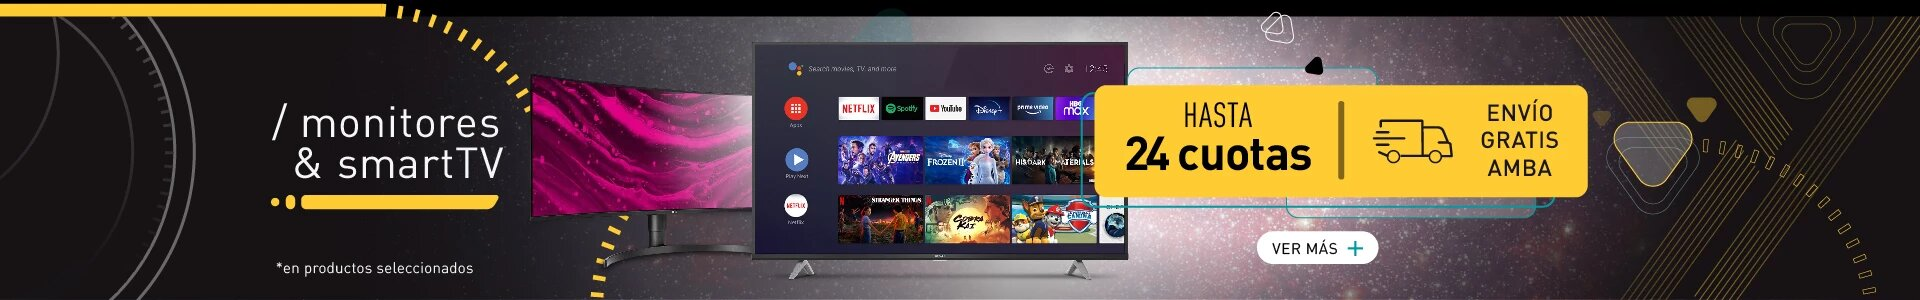
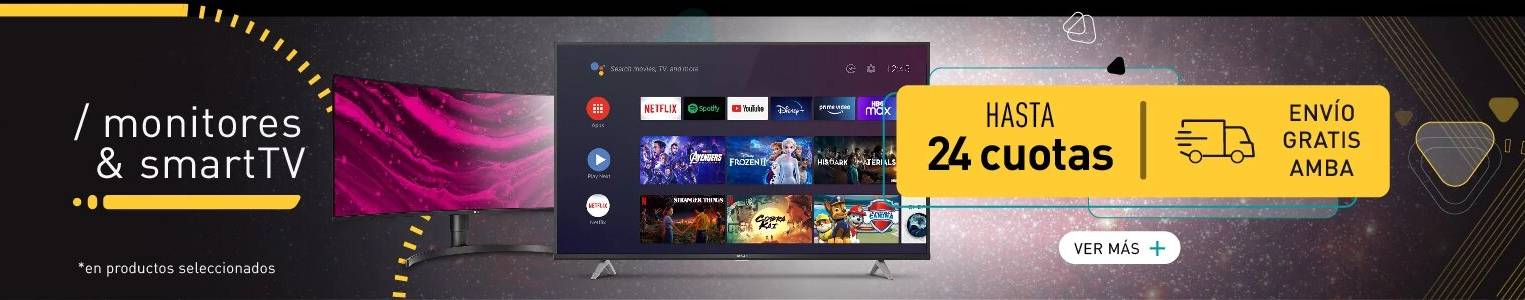
Se realizan correciones del directorio en Github
Se sube el contenido actualizado a src

diff --git a/src/components/item/ItemDetail/ItemDetail.js b/src/components/item/ItemDetail/ItemDetail.js
@@ -1,4 +1,4 @@
-import React from 'react';
+import React, { useState } from 'react';
 import Box from '@mui/material/Box';
 import Container from '@mui/material/Container';
 import Grid from '@mui/material/Grid';
@@ -9,30 +9,75 @@ import TableContainer from '@mui/material/TableContainer';
 import TableHead from '@mui/material/TableHead';
 import TableRow from '@mui/material/TableRow';
 import ItemCount from '../ItemCount/ItemCount';
+import Button from '@mui/material/Button';
 import './ItemDetail.css';
+import DoneIcon from '@mui/icons-material/Done';
+import { Link } from 'react-router-dom';
+import Alert from '@mui/material/Alert';
+import { isElementOfType } from 'react-dom/test-utils';
 
 
 const ItemDetail = ({producto}) => {
 
-    const contenidoCarrito = (x) =>{
-        if(x == 1){
-            console.log("Se añadio un producto al carrito")
+    const categorias = [
+        {
+            id: 0,
+            nombre: 'computadoras',
+            ruta: '/categorias/computadoras'
+        },
+        {
+            id: 1,
+            nombre: 'celulares',
+            ruta: '/categorias/celulares'
+        },
+        {
+            id: 2,
+            nombre: 'consolas',
+            ruta: '/categorias/consolas'
+        },
+        {
+            id: 3,
+            nombre: 'televisores',
+            ruta: '/categorias/televisores'
+        },
+        {
+            id: 4,
+            nombre: 'audio',
+            ruta: '/categorias/audio'
         }
-        else{
-            console.log("Se añadieron "+x+" productos al carrito")
-        }
+    ]
+
+    const obtenerRutaCategoria = (categoria) => {
+        const arrayCategoriasFiltrado = categorias
+            .filter( (x) => {
+                if(x.nombre === categoria){
+                    return(x)
+            }})
+        return arrayCategoriasFiltrado[0].ruta
     }
+
+    const [mostrarFinalizarCompra, setMostrarFinalizarCompra] = useState(false)
+    const [alertMensaje, setAlertMensaje] = useState("")
+
+    const handlerClick_FinalizarCompra = (x) => {
+        setMostrarFinalizarCompra(true)
+        setAlertMensaje(contenidoCarrito(x)) 
+    }
+
+    const contenidoCarrito = (x) => x==1 ? ("Se añadio un producto al carrito") : ("Se añadieron "+x+" productos al carrito")
 
     return(
         <>
-            
+        
             <Container>
-                
                 <div className='container--box'>
                     {/* Presentacion */}
                     <Box className="container--boxProducto fontPrincipal">
                         <h5 className='container--spanRuta reset'>
-                            Electromundo -&gt; {producto.categoria} -&gt;
+                            <Link to="/">Electromundo </Link> 
+                            -&gt;
+                            <Link to={obtenerRutaCategoria(producto.categoria)}> {producto.categoria} </Link>
+                            -&gt;
                             <b className='container--spanRutaActual'>{producto.name}</b>
                         </h5>
                         <Grid container spacing={0} sx={{paddingTop: 1}}>
@@ -43,10 +88,20 @@ const ItemDetail = ({producto}) => {
                                 <h3 className='container--tituloProducto reset'>{producto.name}</h3>
                                 <h2 className='container--precio'>{producto.price}</h2>
                                 <Container sx={{paddingTop: 5}}>
-                                    <ItemCount idProducto={producto.id} stock={producto.stock} initial={1} onAdd={contenidoCarrito} sx={{padding: 2}}/>
-                                    <h5 className='container--stock'>
-                                        Stock disponible :  {producto.stock} 
-                                    </h5>
+                                    {
+                                        mostrarFinalizarCompra ?
+                                        <Grid container xs={12}>
+                                            <Grid item xs={12}>
+                                                <Alert sx={{marginBottom: 2}} className="container--alert" severity="success" color="warning" variant="outlined">{alertMensaje}</Alert>
+                                                <Button component={Link} to={"/cart"} variant="contained" className='boton_carrito'>
+                                                    Finalizar compra
+                                                    <DoneIcon sx={{marginLeft: 1}}/> 
+                                                </Button>
+                                            </Grid>
+                                        </Grid>
+                                        :
+                                        <ItemCount idProducto={producto.id} stock={producto.stock} initial={1} onAdd={handlerClick_FinalizarCompra} sx={{padding: 2}}/>
+                                    }
                                 </Container>
                             </Grid>
                         </Grid>

diff --git a/src/components/item/Item/Item.js b/src/components/item/Item/Item.js
@@ -83,18 +83,6 @@ const Item = ({producto}) => {
                                             </TableRow>
                                         )
                                     }
-                                   {/*  <TableRow>
-                                        <TableCell className='specs--cell negrita'>Procesador</TableCell>
-                                        <TableCell className='specs--cell' align='right'>{producto.specs.procesador}</TableCell>
-                                    </TableRow>
-                                    <TableRow>
-                                        <TableCell className='specs--cell negrita'>Memoria RAM </TableCell>
-                                        <TableCell align='right'>{producto.specs.ram}</TableCell>
-                                    </TableRow>
-                                    <TableRow>
-                                        <TableCell className='specs--cell negrita'>Placa de Video</TableCell>
-                                        <TableCell className='specs--cell' align='right'>{producto.specs.video}</TableCell>
-                                    </TableRow> */}
                                 </TableHead>
                             </Table>
                         </TableContainer>
@@ -102,7 +90,7 @@ const Item = ({producto}) => {
                     
                 </div>
 
-                <ItemCount idProducto={producto.id} stock={producto.stock} initial={1} onAdd={contenidoCarrito}/>
+                {/* <ItemCount idProducto={producto.id} stock={producto.stock} initial={1} onAdd={contenidoCarrito}/> */}
 
             </Grid>
         </>

diff --git a/src/components/item/ItemCount/ItemCount.js b/src/components/item/ItemCount/ItemCount.js
@@ -23,13 +23,15 @@ const ItemCount = ({idProducto, stock, initial, onAdd}) => {
         }
     }
 
-    const agregarProductoAlCarrito = () => {
+    const handler_agregarProductoAlCarrito = () => {
         setContador(initial)
         onAdd(contador)
+        //onAdd(contador)
     }
 
     return(
         <>
+        
         <Grid container className='grid'>
             <Grid item xs={3}>
                 <Button variant="text" className='boton' onClick={quitarProducto}>
@@ -45,14 +47,17 @@ const ItemCount = ({idProducto, stock, initial, onAdd}) => {
                 </Button>
             </Grid>
             <Grid container sx={{paddingTop:2}}>
-                <Grid item xs={12}>
-                    <Button variant="contained" className='boton_carrito' onClick={agregarProductoAlCarrito}>
+                 <Grid item xs={12}>
+                    <Button variant="contained" className='boton_carrito' onClick={handler_agregarProductoAlCarrito}>
                         Agregar al Carrito
                         <ShoppingCartIcon sx={{marginLeft: 1}}/> 
                     </Button>
                 </Grid>
             </Grid>
         </Grid>
+        <h5 className='container--stock'>
+            Stock disponible :  {stock} 
+        </h5>
         </>
     )
 }

diff --git a/src/components/item/ItemDetailContainer/ItemDetailContainer.js b/src/components/item/ItemDetailContainer/ItemDetailContainer.js
@@ -1,7 +1,5 @@
 import React,{useEffect, useState} from 'react';
 import Grid from '@mui/material/Grid';
-import lenovo from '../../../media/img/notebook/lenovo3.jpeg';
-import lenovo2 from '../../../media/img/notebook/lenovo2.png';
 import './ItemDetailContainer.css';
 import ItemDetail from '../ItemDetail/ItemDetail';
 import { useParams } from 'react-router-dom';
@@ -25,7 +23,7 @@ const ItemDetailContainer = () => {
     })
 
     // Esta linea la comentamos porque no me funciona productos.caracteristicas en ItemDetail.js 
-    /* const [item, setItem] = useState({}) */
+    //const [item, setItem] = useState([{}]) 
 
     // Si la defino asi entonces si me funciona. Obviamente si hago esto, el useEffect no tendria sentido. Porque inicialmente le estoy asignado el valor del arrayProductoFiltrado[0]
     const [item, setItem] = useState(arrayProductoFiltrado[0])

diff --git a/src/components/item/ItemListContainer/ItemListContainer.js b/src/components/item/ItemListContainer/ItemListContainer.js
@@ -5,7 +5,7 @@ import Container from '@mui/material/Container';
 import Card from '@mui/material/Card';
 import CardContent from '@mui/material/CardContent';
 import StarIcon from '@mui/icons-material/Star';
-import cover from '../../../media/img/cover_sale3.jpg';
+import cover from '../../../media/img/cover_sale.jpg';
 import ItemList from '../ItemList/ItemList';
 import { useParams } from 'react-router-dom';
 import Productos from '../../../mock';
@@ -69,6 +69,8 @@ const ItemListContainer = ({greeting}) => {
                     <CardContent className='main--cardcontentitem' sx={{borderColor: 'transparent'}}>
                         <ItemList array_productos={arrayProductosFiltrado}></ItemList>
                     </CardContent>
+
+
                 </Card>
             </Container>
 

diff --git a/src/components/item/ItemDetail/ItemDetail.css b/src/components/item/ItemDetail/ItemDetail.css
@@ -120,3 +120,30 @@
 .sombraBox{
     box-shadow: 0px 0px 15px 10px rgba(20, 20, 19, 0.831);
 }
+
+.boton_carrito{
+    color: black !important;
+    background-color: #fbd007 !important;
+    font-weight: 600 !important;
+    padding: 5px 25px  !important;
+}
+
+.container--alert{
+    color: #fbd007 !important;
+    border-color: #fbd007 !important;
+}
+
+.MuiAlert-message{
+    font-family: 'Inter', sans-serif;
+    font-weight: 400;
+    text-transform: uppercase;
+    font-size: 0.7rem;
+    margin-top: 3px;
+}
+a{
+    color: #fbd007;
+}
+
+a:hover{
+    font-weight: 500;
+}

diff --git a/src/components/header/Navbar/Navbar.js b/src/components/header/Navbar/Navbar.js
@@ -13,7 +13,7 @@ import SmartphoneIcon from '@mui/icons-material/Smartphone';
 import SportsEsportsIcon from '@mui/icons-material/SportsEsports';
 import TvIcon from '@mui/icons-material/Tv';
 import SpeakerIcon from '@mui/icons-material/Speaker';
-import {Link, NavLink} from 'react-router-dom';
+import {Link} from 'react-router-dom';
 
 const categorias = [
     {

diff --git a/src/App.js b/src/App.js
@@ -18,9 +18,6 @@ const App = () => {
           <Route path="/cart" element={<CartView />} />
         </Routes>
 
-        {/* <ItemListContainer greeting={"¡ Ofertas por tiempo limitado !"}/>
-        <ItemDetailContainer/> */}
-
       </BrowserRouter>
     </div>
   )
